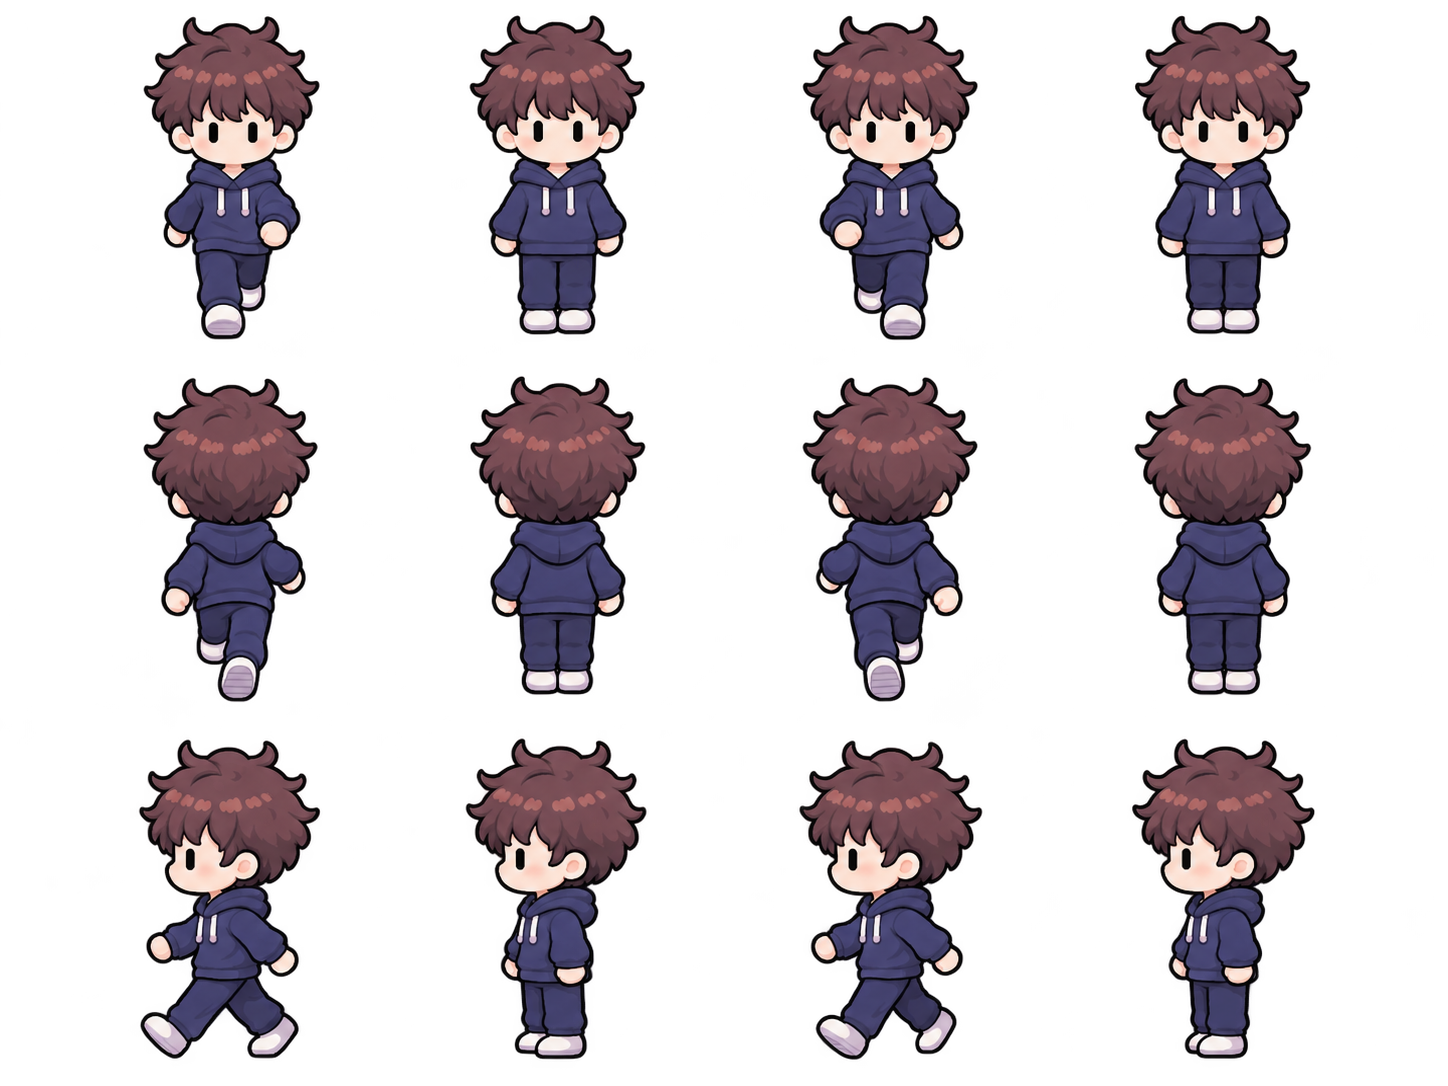
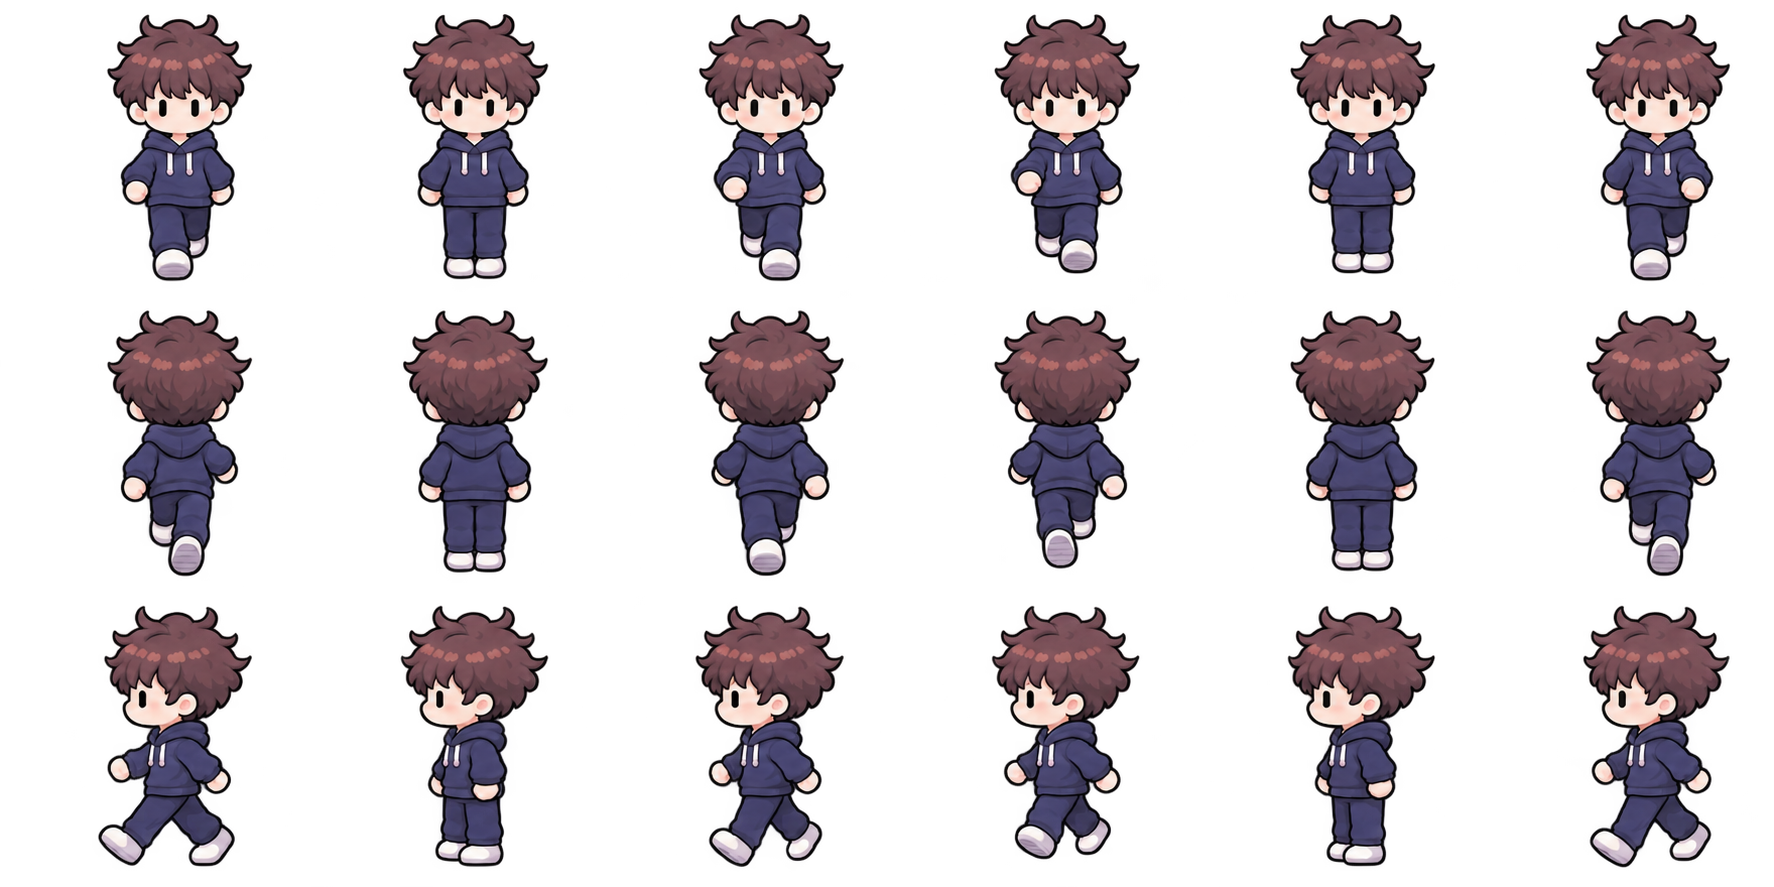
Add walkable question house and refine character animations

diff --git a/js/script.js b/js/script.js
@@ -42,6 +42,9 @@ const replayDirection = document.getElementById("replay-direction");
 const questionDirection = document.getElementById("question-direction");
 const shopDoor = document.getElementById("shop-door");
 const shelfHotspot = document.getElementById("shelf-hotspot");
+const questionHouseDoor = document.getElementById("question-house-door");
+const questionHouseExit = document.getElementById("question-house-exit");
+const questionSpot = document.getElementById("question-spot");
 const sceneToast = document.getElementById("scene-toast");
 const memoryShelfModal = document.getElementById("memory-shelf-modal");
 const memoryShelfClose = document.getElementById("memory-shelf-close");
@@ -468,6 +471,8 @@ const sceneLabels = {
   crossroads: "门外 · 三岔路",
   "shop-exterior": "记忆小店 · 店外",
   "shop-interior": "记忆商店 · 大堂",
+  "question-exterior": "问题小屋 · 门外",
+  "question-interior": "问题小屋",
   "memory-bedroom": "11.1 · 场景重演"
 };
 
@@ -501,11 +506,17 @@ function updateSceneProximity() {
   const nearHome = scene === "crossroads" && playerPosition.x <= 27 && playerPosition.y >= 48;
   const nearShopDoor = scene === "shop-exterior" && playerPosition.y <= 37 && playerPosition.x >= 35 && playerPosition.x <= 65;
   const nearShelf = scene === "shop-interior" && playerPosition.x >= 67 && playerPosition.y <= 57;
+  const nearQuestionDoor = scene === "question-exterior" && playerPosition.y <= 38 && playerPosition.x >= 36 && playerPosition.x <= 64;
+  const nearQuestionExit = scene === "question-interior" && playerPosition.x <= 26 && playerPosition.y >= 52;
+  const nearQuestionSpot = scene === "question-interior" && playerPosition.y <= 48 && playerPosition.x >= 34 && playerPosition.x <= 66;
 
   bedroomDoor.classList.toggle("is-near", nearBedroomDoor);
   crossroadHome.classList.toggle("is-near", nearHome);
   shopDoor.classList.toggle("is-near", nearShopDoor);
   shelfHotspot.classList.toggle("is-near", nearShelf);
+  questionHouseDoor.classList.toggle("is-near", nearQuestionDoor);
+  questionHouseExit.classList.toggle("is-near", nearQuestionExit);
+  questionSpot.classList.toggle("is-near", nearQuestionSpot);
   replayDirection.classList.toggle("is-visible", scene === "crossroads" && playerPosition.x >= 58);
   questionDirection.classList.toggle("is-visible", scene === "crossroads" && playerPosition.y <= 45 && playerPosition.x >= 35 && playerPosition.x <= 65);
 }
@@ -515,6 +526,8 @@ function getSceneBounds() {
     case "crossroads": return { minX: 8, maxX: 92, minY: 26, maxY: 84 };
     case "shop-exterior": return { minX: 14, maxX: 86, minY: 24, maxY: 84 };
     case "shop-interior": return { minX: 12, maxX: 88, minY: 28, maxY: 84 };
+    case "question-exterior": return { minX: 12, maxX: 88, minY: 25, maxY: 84 };
+    case "question-interior": return { minX: 12, maxX: 88, minY: 30, maxY: 84 };
     case "memory-bedroom": return { minX: 12, maxX: 88, minY: 55, maxY: 77 };
     default: return { minX: 12, maxX: 88, minY: 55, maxY: 77 };
   }
@@ -578,9 +591,49 @@ function updateReplayLives() {
   [...replayLives.children].forEach((heart, index) => heart.classList.toggle("is-lost", index >= replayHearts));
 }
 
+function getBackendBaseUrl() {
+  return String(window.ONE_U_CONFIG?.apiBaseUrl || "").replace(/\/$/, "");
+}
+
+function getSessionId() {
+  let sessionId = sessionStorage.getItem("1u-session-id");
+  if (!sessionId) {
+    sessionId = crypto.randomUUID?.() || `${Date.now()}-${Math.random().toString(36).slice(2)}`;
+    sessionStorage.setItem("1u-session-id", sessionId);
+  }
+  return sessionId;
+}
+
+async function sendAnswerToBackend(entry) {
+  const baseUrl = getBackendBaseUrl();
+  if (!baseUrl) return;
+  const storyId = localStorage.getItem("1u-current-story-id");
+  if (!storyId) return;
+  try {
+    await fetch(`${baseUrl}/api/events`, {
+      method: "POST",
+      headers: { "content-type": "application/json" },
+      body: JSON.stringify({
+        storyId,
+        sessionId: getSessionId(),
+        eventType: entry.scene === "question-room" ? "written-answer" : "choice",
+        scene: entry.scene,
+        prompt: entry.prompt,
+        answer: entry.answer,
+        clientTimestamp: entry.recordedAt,
+        metadata: { affection: affectionLevel }
+      })
+    });
+  } catch {
+    // Local storage remains the offline fallback. A later answer can still sync normally.
+  }
+}
+
 function recordAnswer(prompt, answer, scene = bedroomGame.dataset.scene || "unknown") {
-  answerLog.push({ scene, prompt, answer, recordedAt: new Date().toISOString() });
+  const entry = { scene, prompt, answer, recordedAt: new Date().toISOString() };
+  answerLog.push(entry);
   saveGameState(false);
+  sendAnswerToBackend(entry);
 }
 
 function showReplayDialogue({ speaker = "她", text, choices = [], onContinue = null }) {
@@ -834,6 +887,26 @@ function setPlayerFacing(direction) {
   roomPlayerSprite.classList.toggle("is-mirrored", direction === "right");
 }
 
+async function sendProgressToBackend(storyId, state) {
+  const baseUrl = getBackendBaseUrl();
+  if (!baseUrl || !storyId) return;
+  try {
+    await fetch(`${baseUrl}/api/progress`, {
+      method: "POST",
+      headers: { "content-type": "application/json" },
+      body: JSON.stringify({
+        storyId,
+        scene: state.scene,
+        affection: state.affection,
+        memory111Complete: state.memory111Complete,
+        payload: { position: state.position, facing: state.facing, savedAt: state.savedAt }
+      })
+    });
+  } catch {
+    // Keep the local save even when the backend is offline.
+  }
+}
+
 function saveGameState(showFeedback = false) {
   const storyId = localStorage.getItem("1u-current-story-id");
   if (!storyId) return;
@@ -854,6 +927,7 @@ function saveGameState(showFeedback = false) {
   localStorage.setItem("1u-last-saved-story-id", storyId);
   if (state.scene === "bedroom") localStorage.setItem(getRoomStorageKey(storyId), JSON.stringify(state.position));
   if (showFeedback) {
+    sendProgressToBackend(storyId, state);
     showSceneToast("已保存 ♡");
     playSfx("confirm");
   }
@@ -880,7 +954,7 @@ function movementLoop(timestamp) {
 
   if (horizontal || vertical) {
     if (timestamp - lastWalkFrameTime >= 150) {
-      walkFrame = (walkFrame + 1) % 4;
+      walkFrame = (walkFrame + 1) % 6;
       roomPlayer.dataset.walkFrame = String(walkFrame);
       lastWalkFrameTime = timestamp;
     }
@@ -898,12 +972,16 @@ function movementLoop(timestamp) {
 
     if (bedroomGame.dataset.scene === "crossroads" && playerPosition.x >= 91) {
       setScene("shop-exterior", { x: 17, y: 72 }, "right");
+    } else if (bedroomGame.dataset.scene === "crossroads" && playerPosition.y <= 26 && playerPosition.x >= 35 && playerPosition.x <= 65) {
+      setScene("question-exterior", { x: 50, y: 79 }, "back");
     } else if (bedroomGame.dataset.scene === "shop-exterior" && playerPosition.x <= 14) {
       setScene("crossroads", { x: 88, y: 78 }, "left");
     } else if (bedroomGame.dataset.scene === "shop-exterior" && playerPosition.y <= 25 && playerPosition.x >= 35 && playerPosition.x <= 65) {
       setScene("shop-interior", { x: 25, y: 76 }, "back");
     } else if (bedroomGame.dataset.scene === "shop-interior" && playerPosition.y >= 83 && playerPosition.x <= 35) {
       setScene("shop-exterior", { x: 50, y: 36 }, "front");
+    } else if (bedroomGame.dataset.scene === "question-exterior" && playerPosition.y >= 83) {
+      setScene("crossroads", { x: 50, y: 30 }, "front");
     }
   } else {
     roomPlayer.classList.remove("is-walking");
@@ -996,6 +1074,21 @@ shelfHotspot.addEventListener("click", () => {
 questionDirection.addEventListener("click", () => {
   const closeEnough = bedroomGame.dataset.scene === "crossroads" && playerPosition.y <= 34 && playerPosition.x >= 35 && playerPosition.x <= 65;
   if (!closeEnough) return showSceneToast("沿着上方小路再走近一点。" );
+  setScene("question-exterior", { x: 50, y: 79 }, "back");
+});
+
+questionHouseDoor.addEventListener("click", () => {
+  if (!questionHouseDoor.classList.contains("is-near")) return showSceneToast("走到门口再进去吧。" );
+  setScene("question-interior", { x: 20, y: 72 }, "back");
+});
+
+questionHouseExit.addEventListener("click", () => {
+  if (!questionHouseExit.classList.contains("is-near")) return;
+  setScene("question-exterior", { x: 50, y: 44 }, "front");
+});
+
+questionSpot.addEventListener("click", () => {
+  if (!questionSpot.classList.contains("is-near")) return showSceneToast("走近桌边，再开始回答。" );
   questionPlaceStatus.textContent = "";
   questionPlacePanel.hidden = false;
   movementKeys.clear();

diff --git a/css/style.css b/css/style.css
@@ -432,9 +432,11 @@ body.bedroom-game-active .utility-controls { z-index: 70; }
 .bedroom-game[data-scene="crossroads"] { background-image: linear-gradient(180deg, rgba(34,48,89,.04), rgba(76,53,111,.08)), url("../assets/crossroads-night.png"); }
 .bedroom-game[data-scene="shop-exterior"] { background-image: linear-gradient(180deg, rgba(34,48,89,.03), rgba(76,53,111,.08)), url("../assets/replay-shop-exterior.png"); }
 .bedroom-game[data-scene="shop-interior"] { background-image: linear-gradient(180deg, rgba(34,48,89,.02), rgba(76,53,111,.06)), url("../assets/replay-shop-interior.png"); }
+.bedroom-game[data-scene="question-exterior"] { background-image: linear-gradient(180deg, rgba(34,48,89,.03), rgba(76,53,111,.06)), url("../assets/question-house-exterior.png"); }
+.bedroom-game[data-scene="question-interior"] { background-image: linear-gradient(180deg, rgba(38,46,82,.03), rgba(66,50,93,.06)), url("../assets/question-house-interior.png"); }
 .bedroom-game:not([data-scene="bedroom"]):not([data-scene="memory-bedroom"]) .room-girl,
 .bedroom-game:not([data-scene="bedroom"]):not([data-scene="memory-bedroom"]) .npc-dialogue { display: none; }
-.bedroom-game[data-scene="memory-bedroom"] { background-image: linear-gradient(180deg, rgba(38,46,82,.08), rgba(66,50,93,.13)), url("../assets/bedroom-game-desktop.png"); }
+.bedroom-game[data-scene="memory-bedroom"] { background-image: linear-gradient(180deg, rgba(38,46,82,.08), rgba(66,50,93,.13)), url("../assets/memory-bedroom-game-desktop.png"); }
 .bedroom-game[data-scene="memory-bedroom"] .game-exit,
 .bedroom-game[data-scene="memory-bedroom"] .game-save-cluster,
 .bedroom-game[data-scene="memory-bedroom"] .movement-hint,
@@ -453,10 +455,12 @@ body.bedroom-game-active .utility-controls { z-index: 70; }
 .room-player::after { content: ""; position: absolute; z-index: -1; left: 21%; right: 21%; bottom: 4%; height: 7%; border-radius: 50%; background: rgba(55,31,89,.2); filter: blur(3px); }
 .room-player img { width: 100%; height: 100%; display: block; object-fit: contain; opacity: 0; }
 .room-player img.is-mirrored { transform: scaleX(-1); }
-.room-player::before { content: ""; position: absolute; left: 50%; bottom: 1%; width: 112%; aspect-ratio: 1; background: url("../assets/boy-walk-cycle-sheet.png") 0 0 / 400% 300% no-repeat; transform: translateX(-50%); }
-.room-player[data-walk-frame="1"]::before { background-position-x: 33.333%; }
-.room-player[data-walk-frame="2"]::before { background-position-x: 66.666%; }
-.room-player[data-walk-frame="3"]::before { background-position-x: 100%; }
+.room-player::before { content: ""; position: absolute; left: 50%; bottom: 1%; width: 112%; aspect-ratio: 1; background: url("../assets/boy-walk-cycle-sheet.png") 0 0 / 600% 300% no-repeat; transform: translateX(-50%); }
+.room-player[data-walk-frame="1"]::before { background-position-x: 20%; }
+.room-player[data-walk-frame="2"]::before { background-position-x: 40%; }
+.room-player[data-walk-frame="3"]::before { background-position-x: 60%; }
+.room-player[data-walk-frame="4"]::before { background-position-x: 80%; }
+.room-player[data-walk-frame="5"]::before { background-position-x: 100%; }
 .room-player[data-facing="back"]::before { background-position-y: 50%; }
 .room-player[data-facing="left"]::before,
 .room-player[data-facing="right"]::before { background-position-y: 100%; }
@@ -493,6 +497,11 @@ body.bedroom-game-active .utility-controls { z-index: 70; }
 .shop-door { left: 50%; top: 45%; transform: translate(-50%, 5px); }
 .shop-door.is-near { transform: translate(-50%, 0); }
 .shelf-hotspot { right: 7%; top: 47%; }
+.question-house-door { left: 50%; top: 35%; transform: translate(-50%,5px); }
+.question-house-door.is-near { transform: translate(-50%,0); }
+.question-house-exit { left: 4%; bottom: 17%; }
+.question-spot { left: 50%; top: 44%; transform: translate(-50%,5px); }
+.question-spot.is-near { transform: translate(-50%,0); }
 .bedroom-game[data-scene="shop-interior"] .shelf-hotspot { display: block; opacity: .64; transform: translateY(0); animation: shelfBeacon 1.7s ease-in-out infinite; }
 .bedroom-game[data-scene="shop-interior"] .shelf-hotspot.is-near { opacity: 1; }
 .replay-direction { position: absolute; z-index: 6; right: 13%; top: 39%; min-width: 145px; padding: 11px 36px 11px 17px; border: 3px solid #8a5b48; border-radius: 5px; color: #5b3d56; background: linear-gradient(180deg,#f0c89e,#d99d76); box-shadow: inset 0 0 0 2px rgba(255,235,205,.5), 0 8px 18px rgba(35,25,60,.25); font: 700 clamp(.82rem,1.5vw,1.05rem)/1.15 "Kaiti SC",sans-serif; opacity: 0; transform: translateY(8px) rotate(-2deg); transition: opacity .35s ease, transform .35s ease; pointer-events: none; }
@@ -572,7 +581,7 @@ body.bedroom-game-active .utility-controls { z-index: 70; }
 .bedroom-game[data-scene="memory-bedroom"] .room-girl[data-mood="sad"] .room-girl-sprite { background-position: 50% 0; }
 .bedroom-game[data-scene="memory-bedroom"] .room-girl[data-mood="nod"] .room-girl-sprite { background-position: 100% 0; }
 .bedroom-game[data-scene="memory-bedroom"] .room-girl[data-mood="nod"] { animation: girlNod .65s ease 2; }
-.couple-interaction { position: absolute; z-index: 30; left: 79%; top: 61%; width: clamp(205px,17vw,276px); aspect-ratio: 1 / 1; background: url("../assets/couple-interaction-strip.png") 0 50% / 200% 100% no-repeat; transform: translate(-50%,-50%); filter: drop-shadow(0 7px 5px rgba(45,29,72,.2)); animation: coupleMoment 1.5s ease both; }
+.couple-interaction { position: absolute; z-index: 30; left: 79%; top: 61%; width: clamp(170px,14vw,230px); aspect-ratio: 1 / 1; background: url("../assets/couple-interaction-strip.png") 0 50% / 200% 100% no-repeat; transform: translate(-50%,-50%); filter: drop-shadow(0 7px 5px rgba(45,29,72,.2)); animation: coupleMoment 1.5s ease both; }
 .couple-interaction[hidden] { display: none; }
 .couple-interaction[data-action="kiss"] { background-position: 100% 50%; }
 .bedroom-game.is-couple-moment .room-player,
@@ -652,7 +661,9 @@ input,
   .bedroom-game[data-scene="crossroads"] { background-image: linear-gradient(180deg, rgba(34,48,89,.03), rgba(76,53,111,.06)), url("../assets/crossroads-night-mobile.png"); }
   .bedroom-game[data-scene="shop-exterior"] { background-image: linear-gradient(180deg, rgba(34,48,89,.02), rgba(76,53,111,.06)), url("../assets/replay-shop-exterior-mobile.png"); }
   .bedroom-game[data-scene="shop-interior"] { background-image: linear-gradient(180deg, rgba(34,48,89,.02), rgba(76,53,111,.05)), url("../assets/replay-shop-interior-mobile.png"); }
-  .bedroom-game[data-scene="memory-bedroom"] { background-image: linear-gradient(180deg,rgba(38,46,82,.06),rgba(66,50,93,.1)),url("../assets/bedroom-game-mobile.png"); }
+  .bedroom-game[data-scene="question-exterior"] { background-image: linear-gradient(180deg,rgba(34,48,89,.02),rgba(76,53,111,.05)),url("../assets/question-house-exterior-mobile.png"); }
+  .bedroom-game[data-scene="question-interior"] { background-image: linear-gradient(180deg,rgba(38,46,82,.02),rgba(66,50,93,.05)),url("../assets/question-house-interior-mobile.png"); }
+  .bedroom-game[data-scene="memory-bedroom"] { background-image: linear-gradient(180deg,rgba(38,46,82,.06),rgba(66,50,93,.1)),url("../assets/memory-bedroom-game-mobile.png"); }
   .room-player { width: clamp(86px, 24vw, 108px); }
   .room-girl { left: 27%; top: 53%; width: clamp(84px, 24vw, 106px); }
   .npc-dialogue { bottom: max(112px, calc(var(--safe-bottom) + 90px)); width: calc(100vw - 28px); min-height: 98px; padding: 29px 45px 18px 27px; }
@@ -672,7 +683,7 @@ input,
   .replay-dialogue { bottom: max(115px,calc(var(--safe-bottom) + 90px)); width: calc(100vw - 22px); padding: 31px 18px 18px; }
   .replay-choices { grid-template-columns: 1fr; max-height: 33vh; overflow-y: auto; }
   .bedroom-game[data-scene="memory-bedroom"] .room-girl { left: 73%; top: 46%; width: clamp(92px,27vw,118px); }
-  .couple-interaction { left: 72%; top: 48%; width: clamp(150px,43vw,195px); }
+  .couple-interaction { left: 72%; top: 48%; width: clamp(125px,36vw,165px); }
   .question-direction { top:28%; }
   .question-place-panel { width:calc(100vw - 24px); padding:27px 20px; }
   .question-place-panel > div { grid-template-columns:1fr; }

diff --git a/index.html b/index.html
@@ -13,11 +13,17 @@
   <link rel="preload" as="image" href="assets/boy-walk-cycle-sheet.png">
   <link rel="preload" as="image" href="assets/couple-interaction-strip.png">
   <link rel="preload" as="image" href="assets/girl-desk-emotions-strip.png">
+  <link rel="preload" as="image" href="assets/memory-bedroom-game-desktop.png">
+  <link rel="preload" as="image" href="assets/question-house-exterior.png">
+  <link rel="preload" as="image" href="assets/question-house-interior.png">
   <link rel="preload" as="image" href="assets/bedroom-game-mobile.png" media="(max-width: 700px)">
   <link rel="preload" as="image" href="assets/crossroads-night-mobile.png" media="(max-width: 700px)">
   <link rel="preload" as="image" href="assets/replay-shop-exterior-mobile.png" media="(max-width: 700px)">
   <link rel="preload" as="image" href="assets/replay-shop-interior-mobile.png" media="(max-width: 700px)">
-  <link rel="stylesheet" href="css/style.css?v=20261106-0030">
+  <link rel="preload" as="image" href="assets/memory-bedroom-game-mobile.png" media="(max-width: 700px)">
+  <link rel="preload" as="image" href="assets/question-house-exterior-mobile.png" media="(max-width: 700px)">
+  <link rel="preload" as="image" href="assets/question-house-interior-mobile.png" media="(max-width: 700px)">
+  <link rel="stylesheet" href="css/style.css?v=20261106-0040">
 </head>
 <body>
   <main class="game-shell" aria-labelledby="game-title">
@@ -159,6 +165,9 @@
       <div class="replay-shop-title" aria-hidden="true">记忆小店</div>
       <button class="scene-hotspot shop-door" id="shop-door" type="button">进入店里 ↑</button>
       <button class="scene-hotspot shelf-hotspot" id="shelf-hotspot" type="button">查看货架 ♡</button>
+      <button class="scene-hotspot question-house-door" id="question-house-door" type="button">进入问题小屋 ↑</button>
+      <button class="scene-hotspot question-house-exit" id="question-house-exit" type="button">← 离开小屋</button>
+      <button class="scene-hotspot question-spot" id="question-spot" type="button">回答问题 ♡</button>
 
       <p class="scene-toast" id="scene-toast" aria-live="polite"></p>
 
@@ -245,6 +254,7 @@
       </section>
     </section>
   </main>
-  <script src="js/script.js?v=20261106-0030"></script>
+  <script src="js/config.js?v=20261106-0040"></script>
+  <script src="js/script.js?v=20261106-0040"></script>
 </body>
 </html>

diff --git a/js/config.js b/js/config.js
@@ -1,0 +1,5 @@
+window.ONE_U_CONFIG = {
+  // Paste the deployed URL from `npm run deploy` in 1uz-backend here.
+  // Example: "https://1uz-backend.your-name.workers.dev"
+  apiBaseUrl: ""
+};
